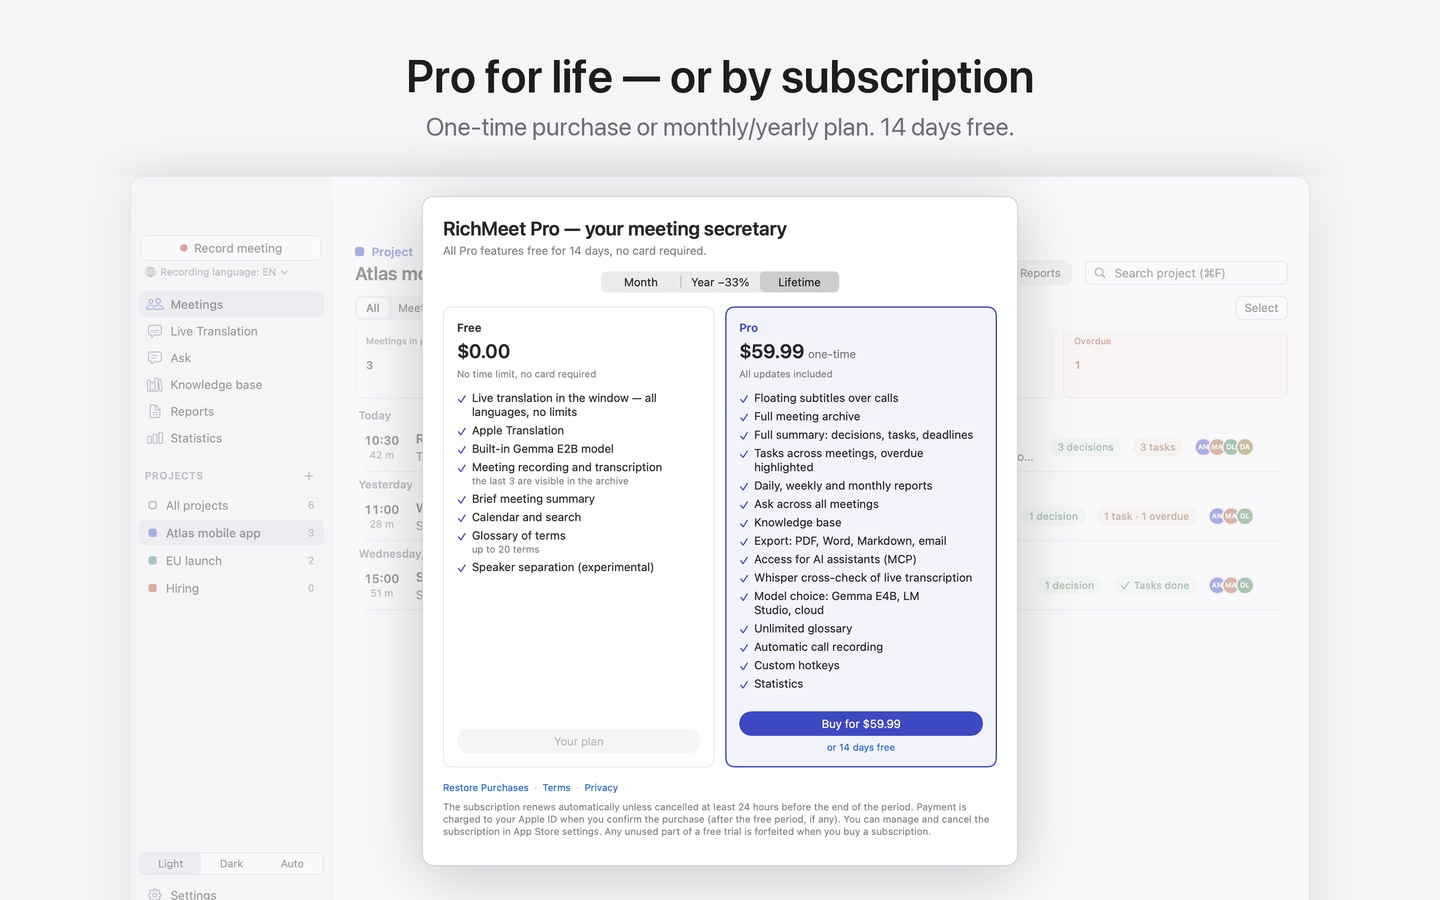
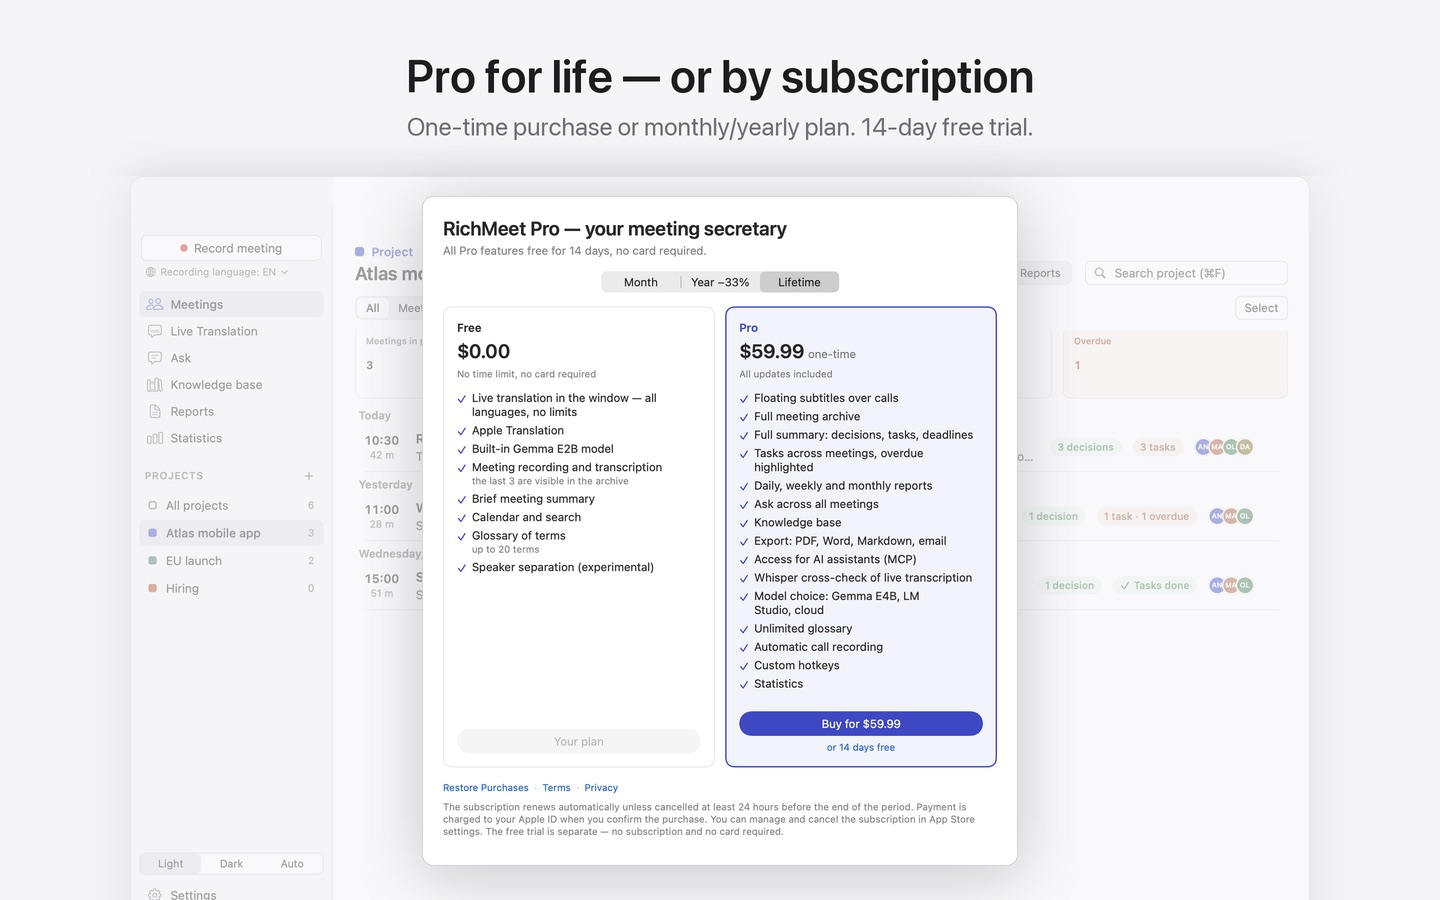
One 14-day free trial for everyone; subscriptions have no free introductory period

Changed region(s): [[0.2812, 0.1244, 0.7188, 0.1556], [0.3125, 0.9022, 0.6875, 0.9333]]

diff --git a/EULA.md b/EULA.md
@@ -12,8 +12,8 @@ RichMeet («Приложение») распространяется через 
 
 ## 2. RichMeet Pro, пробный период и подписки
 - Бесплатная версия работает без ограничения срока. Функции RichMeet Pro доступны по разовой покупке «Pro навсегда» или по подписке на месяц или год; актуальные цены показаны в Приложении и в App Store.
-- Бесплатный пробный период длится 14 дней и даёт все функции Pro. После него бесплатные функции продолжают работать; данные, созданные в пробный период, сохраняются.
-- Подписка продлевается автоматически, пока её не отменят хотя бы за 24 часа до конца текущего периода. Оплата списывается с вашей учётной записи Apple при подтверждении покупки (после бесплатного вводного периода, если он есть). Управлять подпиской и отменить её можно в настройках учётной записи App Store. Неиспользованная часть бесплатного периода сгорает при покупке подписки.
+- Бесплатный пробный период длится 14 дней и даёт все функции Pro. Он один для всех, оформляется отдельной бесплатной покупкой «Пробный период» без подписки и без карты; второй раз его не взять. После него бесплатные функции продолжают работать; данные, созданные в пробный период, сохраняются.
+- Подписка продлевается автоматически, пока её не отменят хотя бы за 24 часа до конца текущего периода. Оплата списывается с вашей учётной записи Apple при подтверждении покупки; бесплатного вводного периода у подписок нет. Управлять подпиской и отменить её можно в настройках учётной записи App Store.
 - Возвраты оформляются через Apple (reportaproblem.apple.com) по правилам App Store.
 - «Pro навсегда» — разовая покупка: она действует для вашей учётной записи Apple без срока и включает обновления Приложения, пока Приложение распространяется в App Store. Восстановить покупки на другом Mac можно кнопкой «Восстановить покупки».
 - Встречи сверх бесплатного лимита не удаляются: они хранятся и снова открываются с Pro.
@@ -54,8 +54,8 @@ The rights holder grants you a non-exclusive, non-transferable right to use the 
 
 ## 2. RichMeet Pro, free trial and subscriptions
 - The free version has no time limit. RichMeet Pro features are available with a one-time "Pro for Life" purchase or a monthly or yearly subscription; current prices are shown in the App and on the App Store.
-- The free trial lasts 14 days and includes all Pro features. Afterwards the free features keep working; data created during the trial is kept.
-- Subscriptions renew automatically unless cancelled at least 24 hours before the end of the current period. Payment is charged to your Apple Account when you confirm the purchase (after the free introductory period, if any). You can manage and cancel subscriptions in your App Store account settings. Any unused portion of a free period is forfeited when you purchase a subscription.
+- The free trial lasts 14 days and includes all Pro features. There is one trial for everyone, started as a separate free "14-day Trial" purchase with no subscription and no card; it can be taken only once. Afterwards the free features keep working; data created during the trial is kept.
+- Subscriptions renew automatically unless cancelled at least 24 hours before the end of the current period. Payment is charged to your Apple Account when you confirm the purchase; subscriptions have no free introductory period. You can manage and cancel subscriptions in your App Store account settings.
 - Refunds are handled by Apple (reportaproblem.apple.com) under App Store rules.
 - "Pro for Life" is a one-time purchase: it stays with your Apple Account with no expiry and includes App updates for as long as the App is distributed on the App Store. Use "Restore Purchases" to restore it on another Mac.
 - Meetings above the free limit are never deleted: they are kept and open again with Pro.

diff --git a/index.md b/index.md
@@ -85,7 +85,7 @@ By category of product, as they usually work (individual products differ).
 | Model choice: Gemma E4B, LM Studio, cloud with your key | | ✓ |
 | Automatic call recording, custom hotkeys, statistics | | ✓ |
 
-**Pro:** 14 days free, then **$59.99 once** (Pro for life) or **$4.99 / month** or **$39.99 / year**. Older meetings above the free limit are kept, not deleted, and open again with Pro. Prices may vary by country; the App Store shows the final price. Subscriptions renew automatically until cancelled in your App Store account settings.
+**Pro:** a 14-day free trial (no subscription, no card), then **$59.99 once** (Pro for life) or **$4.99 / month** or **$39.99 / year**. Older meetings above the free limit are kept, not deleted, and open again with Pro. Prices may vary by country; the App Store shows the final price. Subscriptions renew automatically until cancelled in your App Store account settings.
 
 <img src="screenshots/en/08-pro.jpg" alt="RichMeet Pro" style="width:100%;border-radius:8px;border:1px solid #E5E5EA">
 
@@ -171,7 +171,7 @@ Mac with Apple silicon (M1 or later), macOS 26 or later. Models for translation 
 | Выбор модели: Gemma E4B, LM Studio, облако по вашему ключу | | ✓ |
 | Автозапись звонков, свои горячие клавиши, статистика | | ✓ |
 
-**Pro:** 14 дней бесплатно, затем **$59.99 один раз** (Pro навсегда), **$4.99 в месяц** или **$39.99 в год**. Встречи сверх бесплатного лимита не удаляются и снова открываются с Pro. Цены в разных странах могут отличаться, окончательную цену показывает App Store. Подписка продлевается автоматически, пока её не отменят в настройках учётной записи App Store.
+**Pro:** пробный период 14 дней бесплатно (без подписки и без карты), затем **$59.99 один раз** (Pro навсегда), **$4.99 в месяц** или **$39.99 в год**. Встречи сверх бесплатного лимита не удаляются и снова открываются с Pro. Цены в разных странах могут отличаться, окончательную цену показывает App Store. Подписка продлевается автоматически, пока её не отменят в настройках учётной записи App Store.
 
 <img src="screenshots/ru/08-pro.jpg" alt="RichMeet Pro" style="width:100%;border-radius:8px;border:1px solid #E5E5EA">
 
